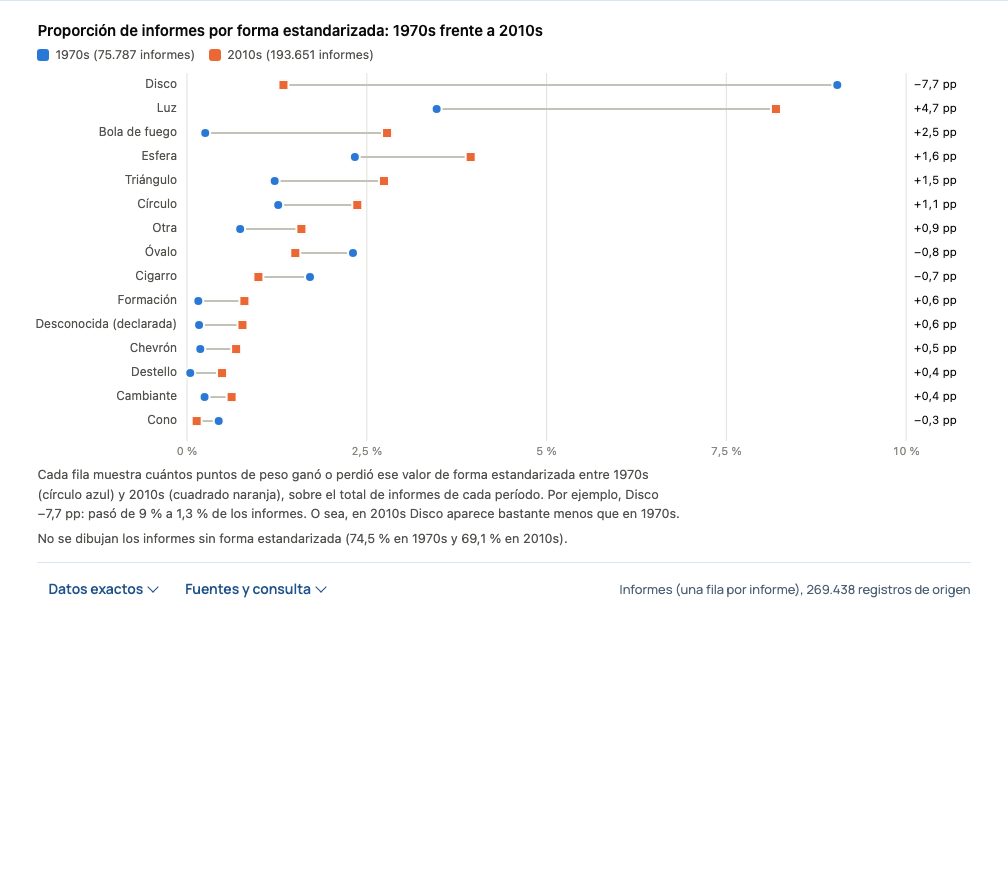
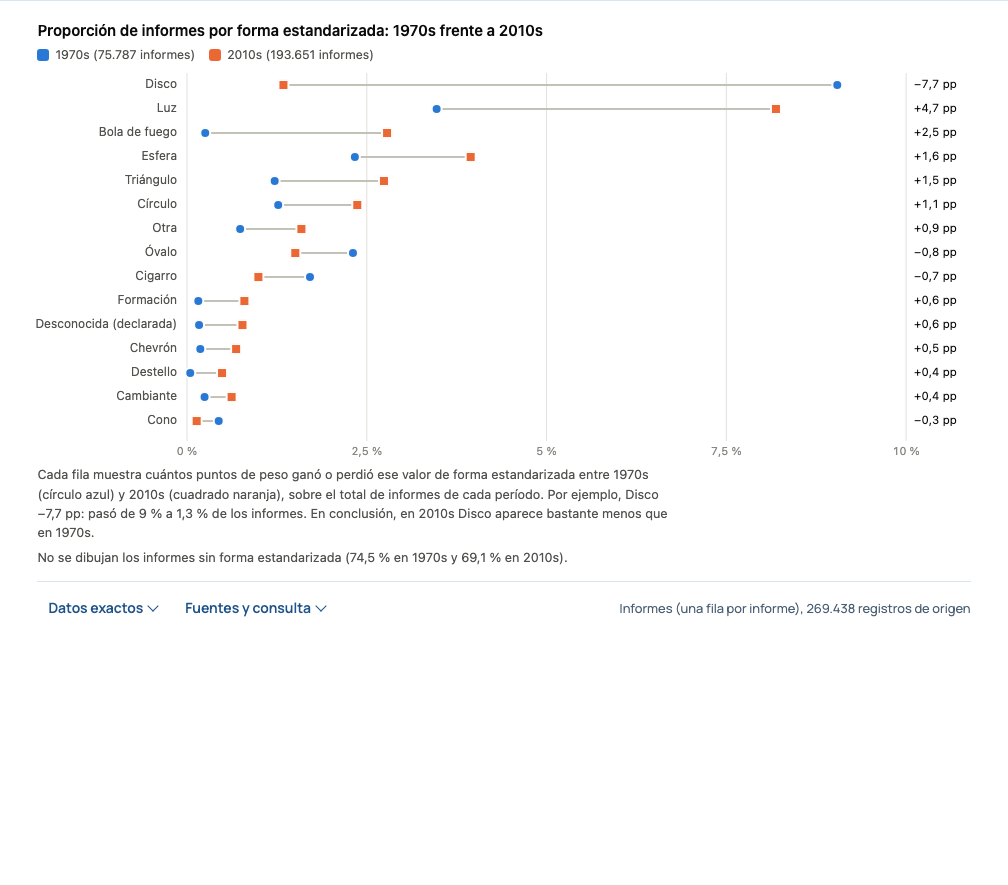
Encabeza la conclusión del cambio entre períodos con En conclusión

Changed region(s): [[0.0308, 0.5492, 0.6766, 0.7017], [0.6151, 0.6407, 0.9534, 0.7017]]

diff --git a/apps/web/src/components/views/proposals.tsx b/apps/web/src/components/views/proposals.tsx
@@ -260,7 +260,7 @@ export function DumbbellView({ result, catalog }: Props) {
             <div className="viz-note dumbbell-help">
               <p>Cada fila muestra cuántos puntos de peso ganó o perdió ese valor de {what} entre {p0} (círculo azul) y {p1} (cuadrado naranja), sobre el total de informes de cada período.
                 {ex ? ` Por ejemplo, ${ex.c} ${ex.delta >= 0 ? "+" : "−"}${(Math.round(Math.abs(ex.delta) * 1000) / 10).toLocaleString("es-ES")} pp: pasó de ${pct(ex.shares[0].share, 1)} a ${pct(ex.shares[1].share, 1)} de los informes.` : ""}
-                {ex ? ` O sea, en ${p1} ${ex.c} aparece ${Math.abs(ex.delta) >= 0.05 ? "bastante " : Math.abs(ex.delta) < 0.01 ? "un poco " : ""}${ex.delta >= 0 ? "más" : "menos"} que en ${p0}.` : ""}</p>
+                {ex ? ` En conclusión, en ${p1} ${ex.c} aparece ${Math.abs(ex.delta) >= 0.05 ? "bastante " : Math.abs(ex.delta) < 0.01 ? "un poco " : ""}${ex.delta >= 0 ? "más" : "menos"} que en ${p0}.` : ""}</p>
               {missingShare.some((m) => m > 0) ? <p>No se dibujan los informes sin {what} ({pct(missingShare[0], 1)} en {p0} y {pct(missingShare[1], 1)} en {p1}).</p> : null}
             </div>
           );

diff --git a/apps/web/tests/e2e/proposals.spec.ts b/apps/web/tests/e2e/proposals.spec.ts
@@ -50,7 +50,7 @@ test("cambio entre períodos: proporciones sobre el total de cada período", asy
   const marks = page.locator(".viz-panel .mark");
   await expect(marks.first()).toHaveAttribute("aria-label", "Luz: 20 % en 1970s, 90 % en 2010s (+70 pp)");   // el mayor cambio primero
   await expect(marks.nth(1)).toHaveAttribute("aria-label", "Disco: 60 % en 1970s, 10 % en 2010s (−50 pp)");
-  await expect(page.locator(".dumbbell-help")).toContainText("Por ejemplo, Luz +70 pp: pasó de 20 % a 90 % de los informes. O sea, en 2010s Luz aparece bastante más que en 1970s.");
+  await expect(page.locator(".dumbbell-help")).toContainText("Por ejemplo, Luz +70 pp: pasó de 20 % a 90 % de los informes. En conclusión, en 2010s Luz aparece bastante más que en 1970s.");
   await expect(page.locator(".dumbbell-help p")).toHaveCount(2);
   await expect(page.locator(".dumbbell-help")).toContainText("No se dibujan los informes sin forma estandarizada (20 % en 1970s y 0 % en 2010s).");
   await expect(page.locator(".viz-panel .mark")).toHaveCount(2);                     // “sin dato” no se dibuja
